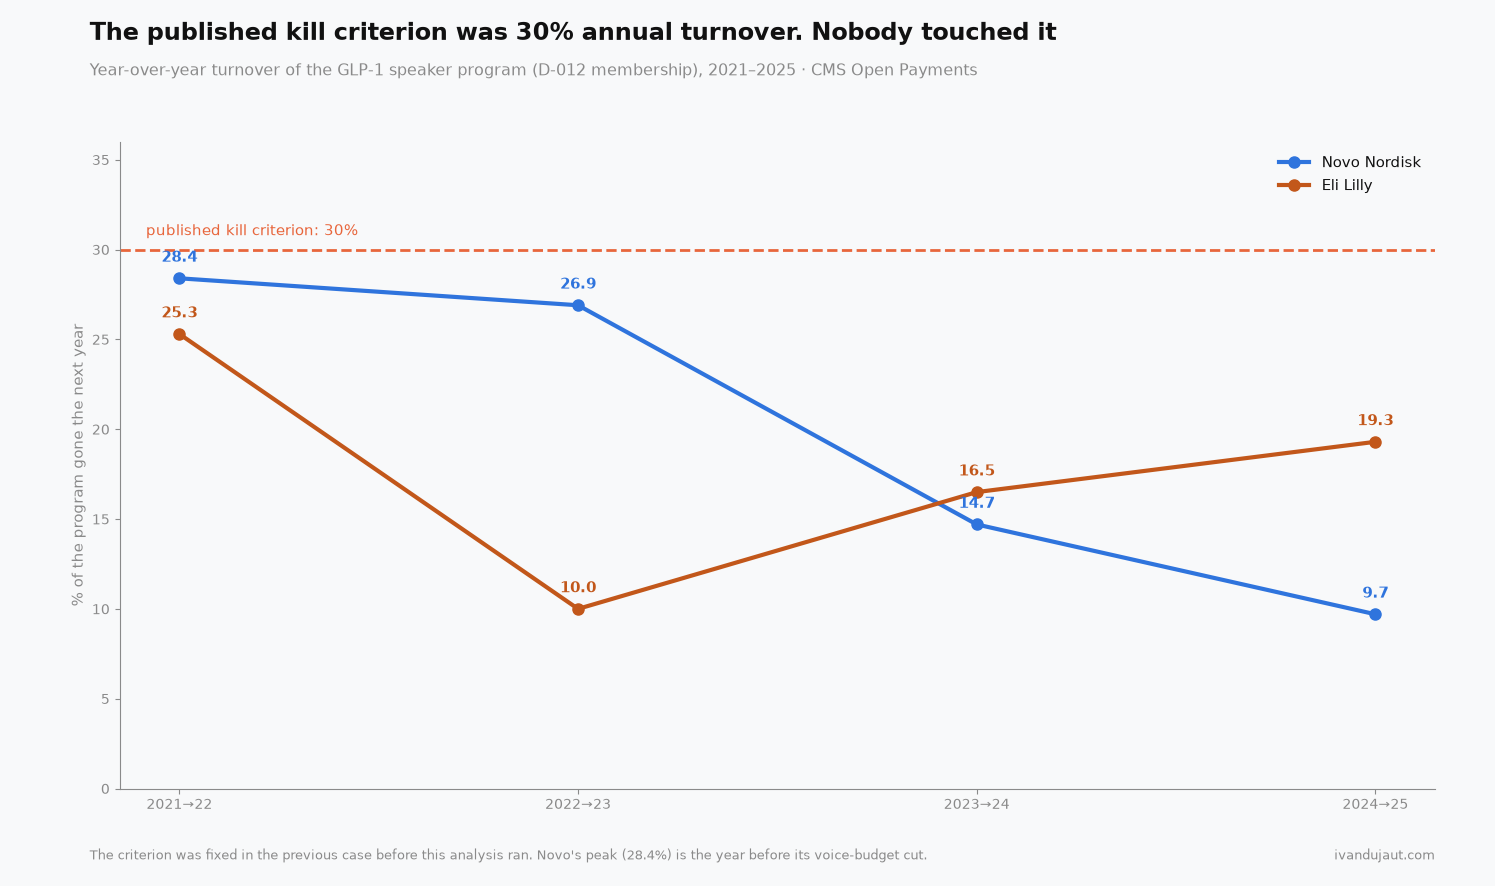
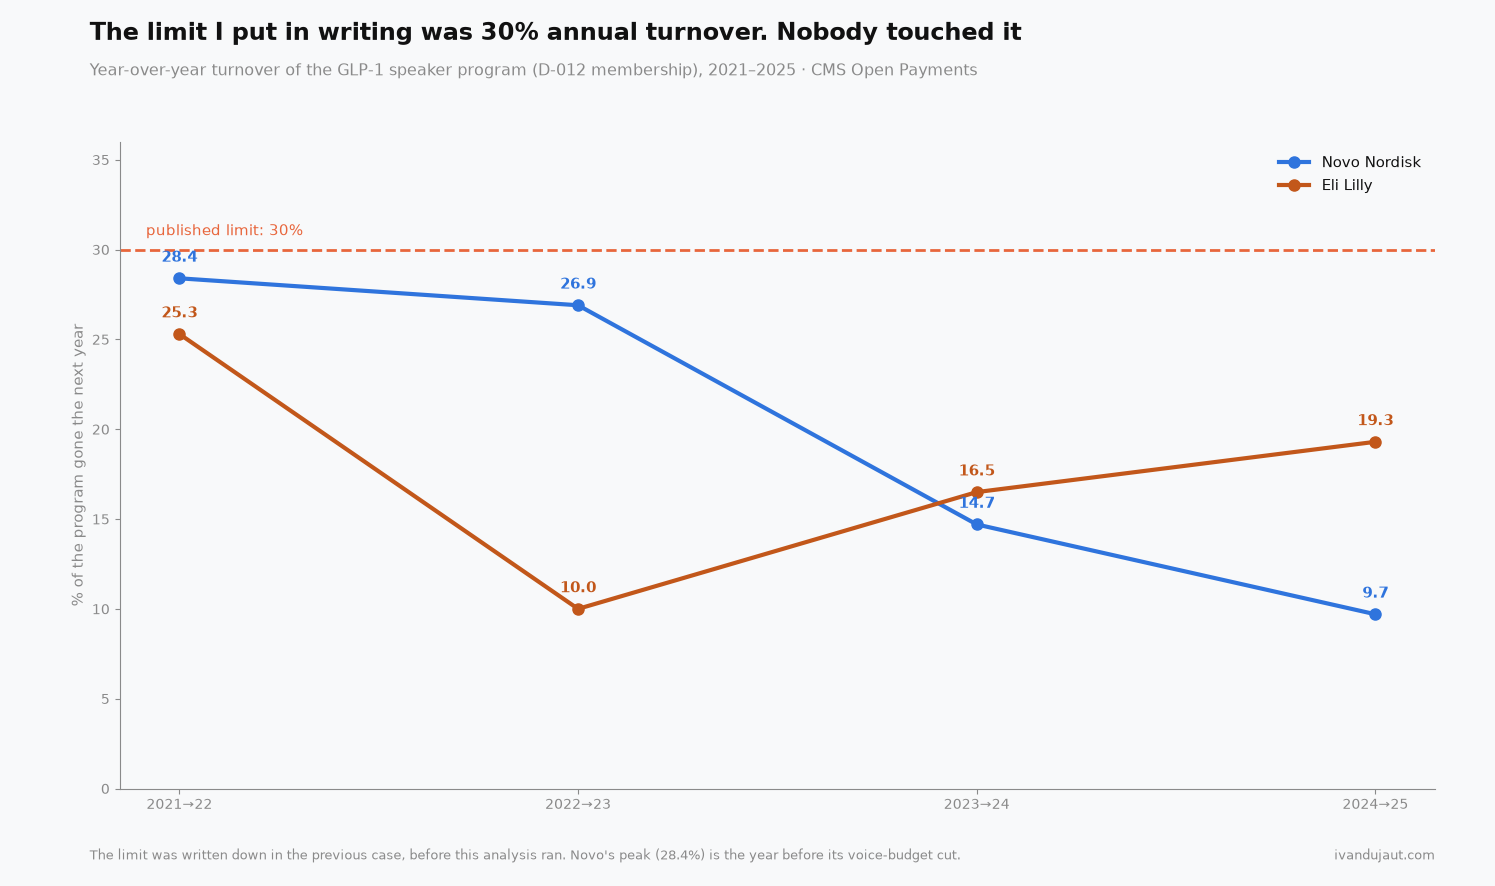
g8: el límite escrito en vez del descarte, para el lector

Changed region(s): [[0.0923, 0.0, 0.7077, 0.0609], [0.0923, 0.9447, 0.6462, 0.9752], [0.1538, 0.2438, 0.2462, 0.2743]]

diff --git a/charts/g8_descarte.py b/charts/g8_descarte.py
@@ -19,24 +19,24 @@ CACHE = ROOT / "findings" / "cache" / "corte-05_rotacion.json"
 
 TEXTOS = {
     "es": {
-        "titulo": "El descarte publicado era 30% de rotación anual. Nadie lo tocó",
+        "titulo": "El límite que dejé escrito era 30% de rotación anual. Nadie lo tocó",
         "subtitulo": ("Rotación año a año del programa de voz GLP-1 (membresía D-012), "
                       "2021–2025 · CMS Open Payments"),
         "ylabel": "% del programa que no sigue al año siguiente",
         "novo": "Novo Nordisk", "lilly": "Eli Lilly",
-        "descarte": "descarte publicado: 30%",
-        "nota": ("El criterio quedó fijado en el caso anterior antes de correr este análisis. "
+        "descarte": "límite publicado: 30%",
+        "nota": ("El límite quedó escrito en el caso anterior, antes de correr este análisis. "
                  "El pico de Novo (28,4%) es el año previo a su recorte del gasto de voz."),
         "archivo": "g8_descarte",
     },
     "en": {
-        "titulo": "The published kill criterion was 30% annual turnover. Nobody touched it",
+        "titulo": "The limit I put in writing was 30% annual turnover. Nobody touched it",
         "subtitulo": ("Year-over-year turnover of the GLP-1 speaker program (D-012 membership), "
                       "2021–2025 · CMS Open Payments"),
         "ylabel": "% of the program gone the next year",
         "novo": "Novo Nordisk", "lilly": "Eli Lilly",
-        "descarte": "published kill criterion: 30%",
-        "nota": ("The criterion was fixed in the previous case before this analysis ran. "
+        "descarte": "published limit: 30%",
+        "nota": ("The limit was written down in the previous case, before this analysis ran. "
                  "Novo's peak (28.4%) is the year before its voice-budget cut."),
         "archivo": "g8_descarte.en",
     },
